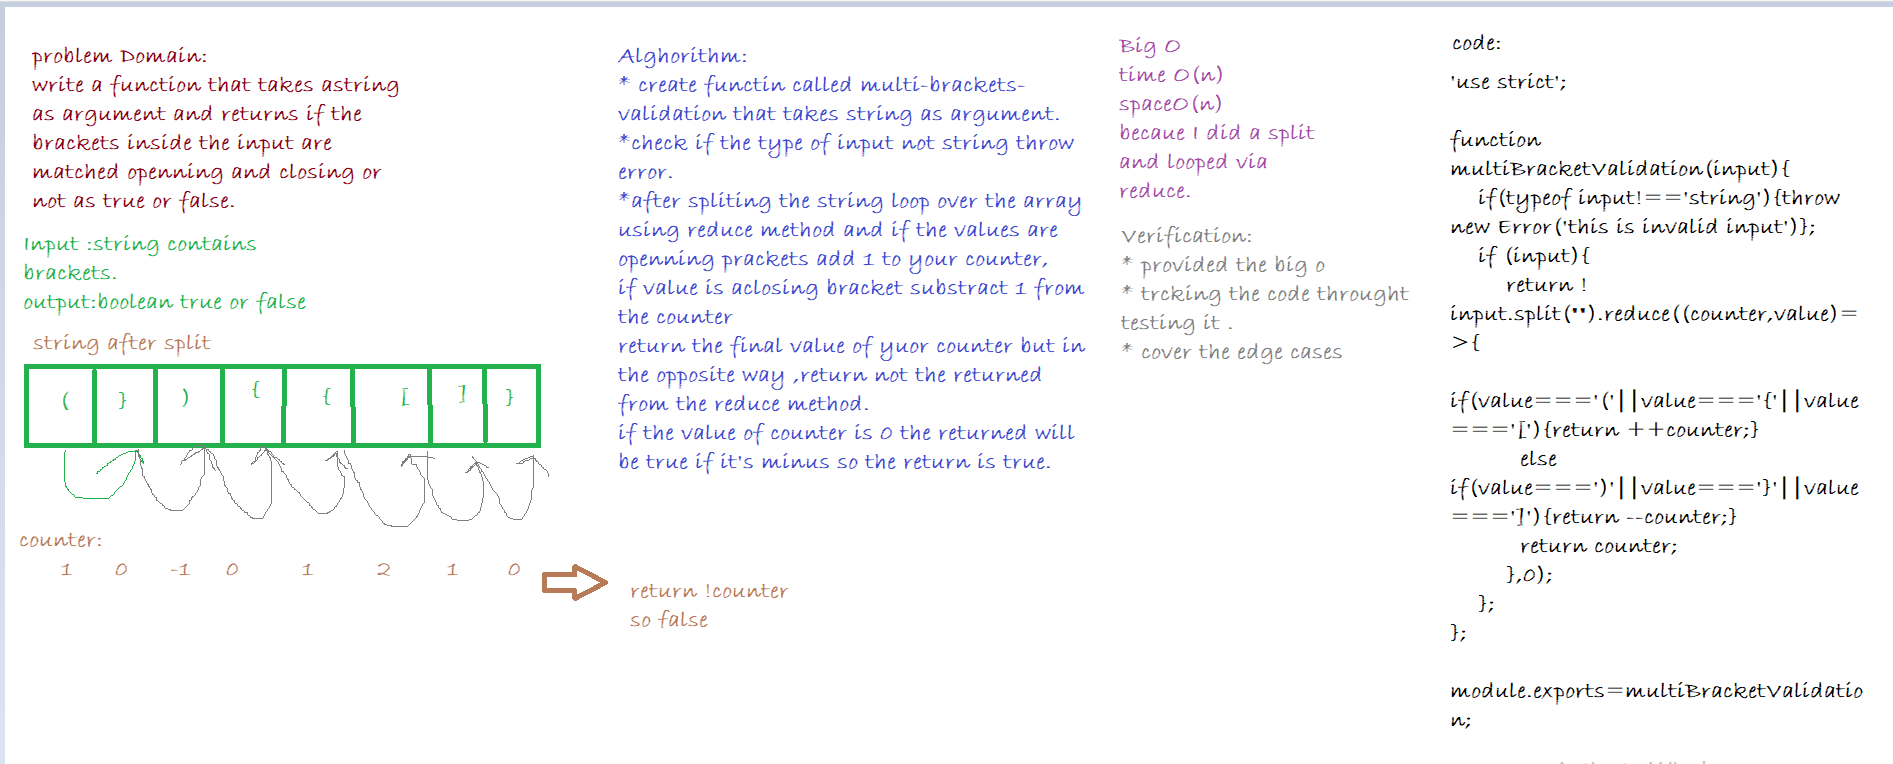
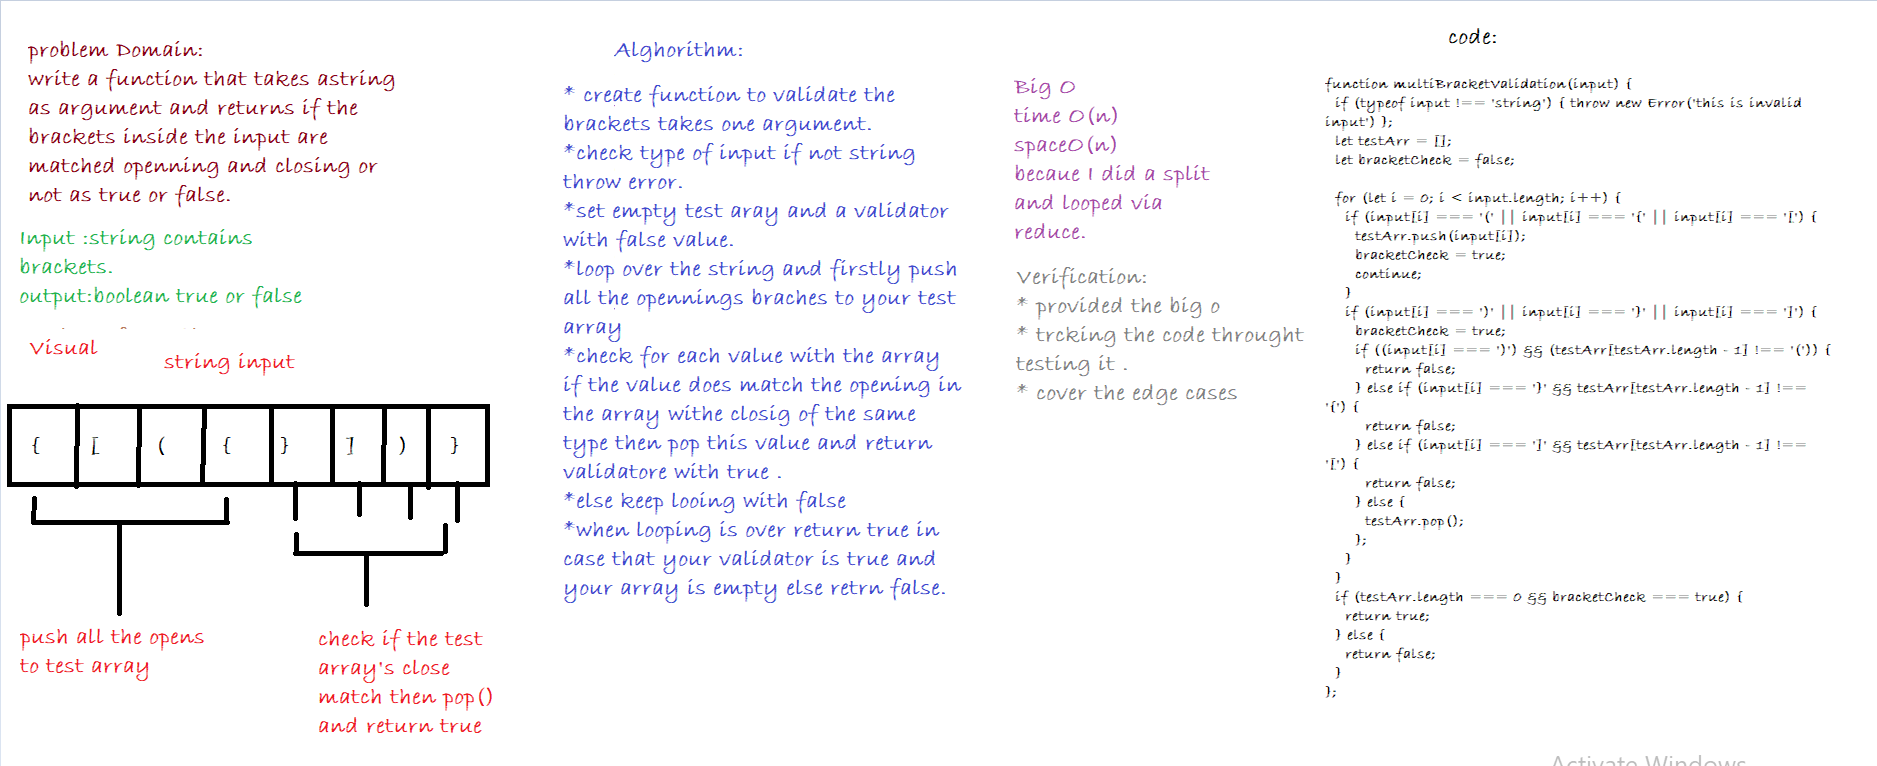
chalenge 14 is done

diff --git a/challenges/multiBracketValidation/multi-bracket-validation.js b/challenges/multiBracketValidation/multi-bracket-validation.js
@@ -1,14 +1,34 @@
 'use strict';
 
-function multiBracketValidation(input){
-    if(typeof input!=='string'){throw new Error('this is invalid input')};
-    if (input){
-        return !input.split("").reduce((counter,value)=>{
-          if(value==='('||value==='{'||value==='['){return ++counter;}
-          else if(value===')'||value==='}'||value===']'){return --counter;}
-          return counter;
-        },0);
-    };
+function multiBracketValidation(input) {
+  if (typeof input !== 'string') { throw new Error('this is invalid input') };
+  let testArr = [];
+  let bracketCheck = false;
+
+  for (let i = 0; i < input.length; i++) {
+    if (input[i] === '(' || input[i] === '{' || input[i] === '[') {
+      testArr.push(input[i]);
+      bracketCheck = true;
+      continue;
+    }
+    if (input[i] === ')' || input[i] === '}' || input[i] === ']') {
+      bracketCheck = true;
+      if ((input[i] === ')') && (testArr[testArr.length - 1] !== '(')) {
+        return false;
+      } else if (input[i] === '}' && testArr[testArr.length - 1] !== '{') {
+        return false;
+      } else if (input[i] === ']' && testArr[testArr.length - 1] !== '[') {
+        return false;
+      } else {
+        testArr.pop();
+      };
+    }
+  }
+  if (testArr.length === 0 && bracketCheck === true) {
+    return true;
+  } else {
+    return false;
+  }
 };
 
-module.exports=multiBracketValidation;
+module.exports = multiBracketValidation;

diff --git a/__tests__/multi-bracket-validation.test.js b/__tests__/multi-bracket-validation.test.js
@@ -17,5 +17,9 @@ describe('functiona;ity of the multiBracketsfunction',()=>{
         let string2='()[[Extra Characters]]';
         expect(multiBracketValidation(string)).toBe(true);
         expect(multiBracketValidation(string2)).toBe(true);
-    })
-})
+    });
+    it('will return false if brackets matched openning and closing but not type',()=>{
+        let string='[}(){[}]';
+        expect(multiBracketValidation(string)).toBe(false);
+    });
+});
